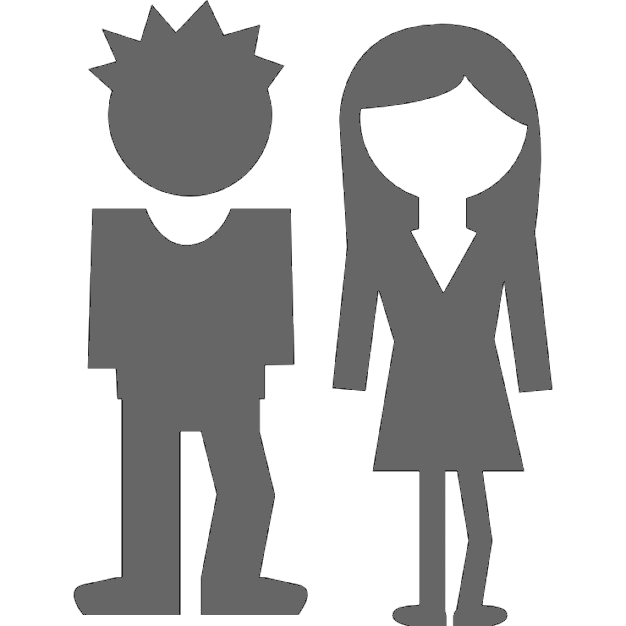
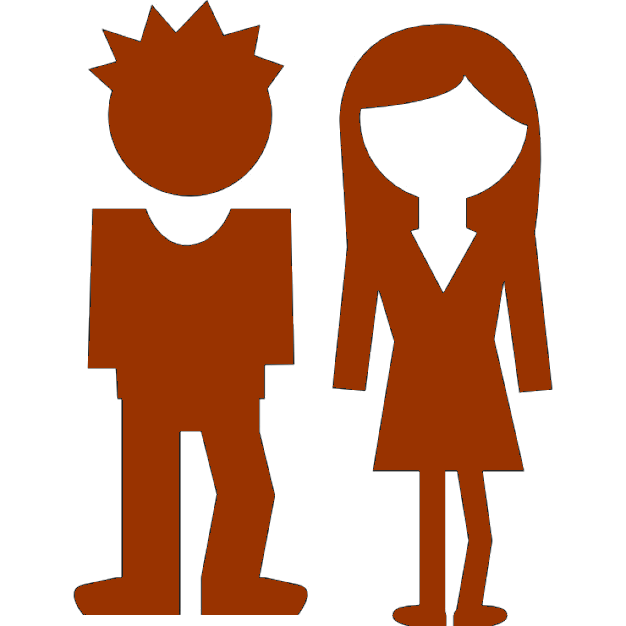
Use brown theme

diff --git a/src/components/style.css b/src/components/style.css
@@ -19,7 +19,7 @@
     font-size: 6rem;
     line-height: 100%;
     width: 100%;
-    color: slategrey;
+    color: brown;
 }
 
 .titlebar .groom-name {
@@ -27,15 +27,16 @@
     font-size: 3.7rem;
     line-height: 100%;
     width: 100%;
-    color: slategrey;
+    color: brown;
 }
 
 .titlebar .wedding-date {
     font-family: 'FuturaLTBook';
     font-size: 1.3em;
+    font-weight: bold;
     margin-bottom: 0rem;
     margin-top: 1rem;
-    color: steelblue;
+    color: turquoise;
 }
 
 #nav { display: table; }
@@ -216,7 +217,7 @@
     animation-delay: 2s;
 }
 .saveDate {
-    color: #4285F4;
+    color: brown;
     font-size: 1.7rem;
     margin-left: 1rem;
 }
